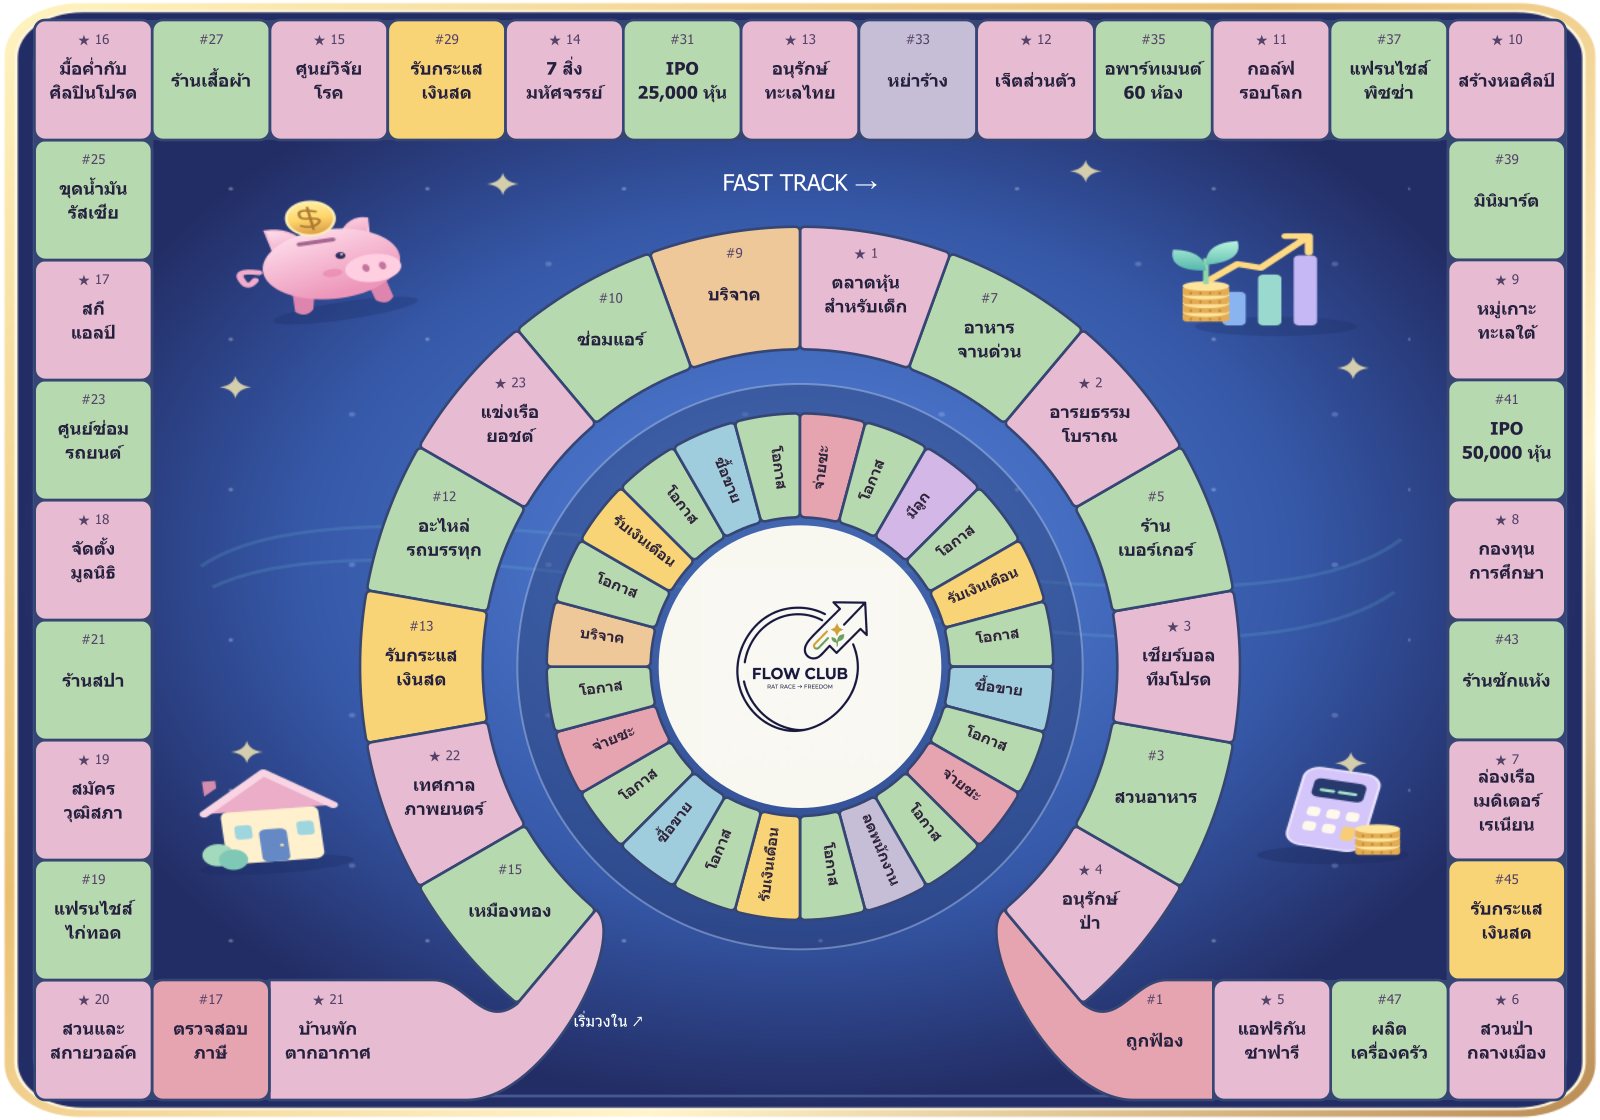
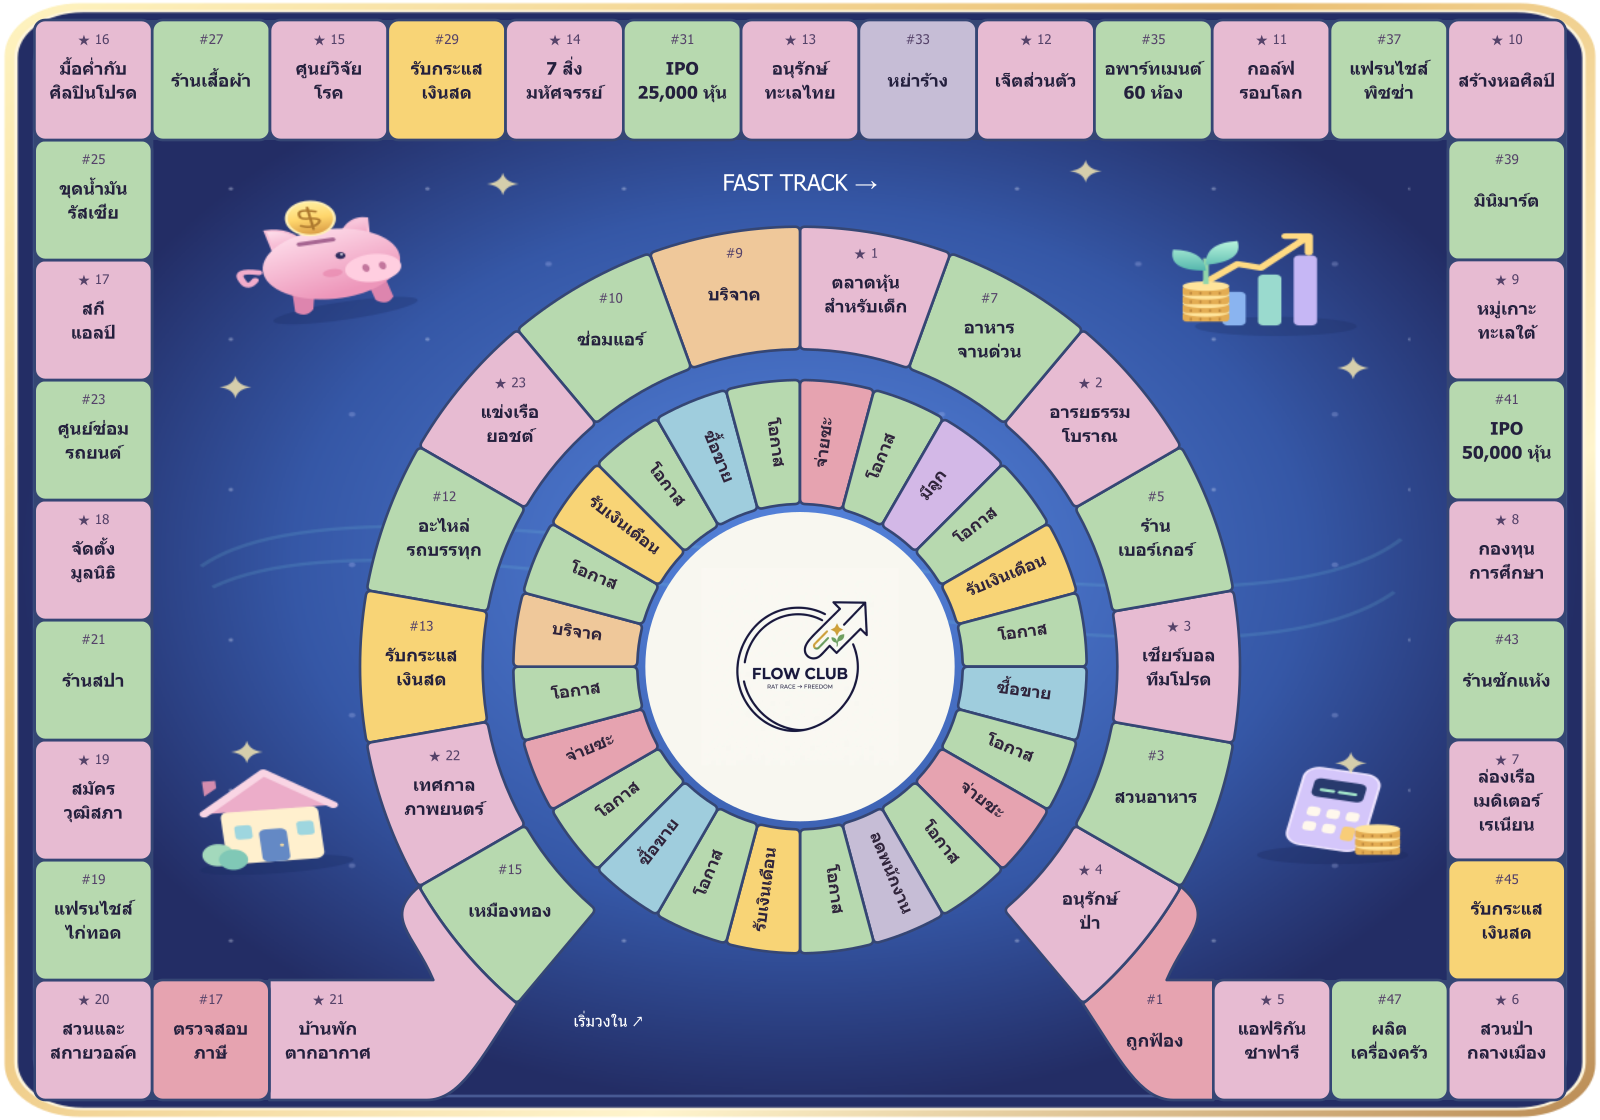
Up38

Changed region(s): [[0.3125, 0.3125, 0.6875, 0.875], [0.625, 0.7812, 0.75, 1.0], [0.25, 0.7812, 0.375, 1.0]]

diff --git a/components/PhotoBoard.jsx b/components/PhotoBoard.jsx
@@ -15,20 +15,20 @@ export default function PhotoBoard({players=[],active,lang='th',preview=false,ga
  const space=selected?(selected.track==='fast'?photoSpaces[selected.index]:{name:labels[photoInner[selected.index]],description:details[photoInner[selected.index]]}):null;
  const inspect=(track,index)=>setSelected({track,index});
  const interaction=(track,i)=>({role:'button',tabIndex:preview?-1:0,onClick:()=>!preview&&inspect(track,i),onKeyDown:e=>{if(!preview&&['Enter',' '].includes(e.key)){e.preventDefault();inspect(track,i);}}});
- function focusPlayer(){const p=players.find(p=>p.id===(selfId||active));if(!p)return;inspect(p.track,p.position);const [x,y]=p.track==='fast'?fastPoint(p.position):polar(148,142.5+p.position*15);const el=view.current;if(el){const width=el.scrollWidth;el.scrollTo({left:x/1200*width-el.clientWidth/2,top:y/840*(width*.7)-el.clientHeight/2,behavior:'smooth'});}}
+ function focusPlayer(){const p=players.find(p=>p.id===(selfId||active));if(!p)return;inspect(p.track,p.position);const [x,y]=p.track==='fast'?fastPoint(p.position):polar(169,142.5+p.position*15);const el=view.current;if(el){const width=el.scrollWidth;el.scrollTo({left:x/1200*width-el.clientWidth/2,top:y/840*(width*.7)-el.clientHeight/2,behavior:'smooth'});}}
  return <div ref={wrap} className="photo-board-wrap board-container">
  {!preview&&<div className="photo-board-tools"><span>{L('แตะช่องเพื่อดูราคา รายได้ และเงื่อนไข','Tap a space for price, income and rules')}</span><div className="row"><button className="btn secondary" onClick={()=>setZoom(z=>z===1?2:z===2?3:1)}>{L('ขยาย','Zoom')} {zoom}×</button><button className="btn secondary" onClick={()=>{if(document.fullscreenElement)document.exitFullscreen?.();else if(wrap.current?.requestFullscreen)wrap.current.requestFullscreen().catch(()=>setZoom(2));else setZoom(2);}}>{L('เต็มจอ ↗ / กลับ','Full screen / back')}</button><button className="btn secondary" disabled={!players.length} onClick={focusPlayer}>{L('ตำแหน่งของฉัน','My position')}</button></div></div>}
  {!preview&&game?.status==='playing'&&<RoomEmojis key={game.id} roomId={game.id} canSend={!!emojiAuthorization} authorization={emojiAuthorization} lang={lang}/>}
  <div ref={view} className={'photo-board-scroll '+(zoom>1?'zoomed':'')}><svg className="photo-board" style={{width:zoom*100+'%'}} viewBox="0 0 1200 840" role="group" aria-label={L('กระดานวงใน 24 ช่อง วงนอก 48 ช่อง','Board: 24 inner spaces, 48 outer spaces')}>
  <image width="1200" height="840" href="/flow-garden-board-spacious-v2.svg" preserveAspectRatio="none" pointerEvents="none"/>
  <path d="M 910 780 H 1130 V 60 H 70 V 780 H 246" fill="none" stroke="#354674" strokeWidth="90" strokeLinejoin="round"/>
- <circle cx="600" cy="500" r="212" fill="#243662" fillOpacity=".35" stroke="#b5c8ec" strokeOpacity=".45" strokeWidth="1.5"/>
+
  {photoSpaces.map((s,i)=>{const [x,y]=fastPoint(i),chosen=!!s.dream&&s.dream===selectedDream,arc=i>=1&&i<=14,a=40-(i-1)*20;const lines=T(boardShortLabels[i]).split('|'),transition=boardTransitionPath(i);return <g key={i} className="board-space" {...interaction('fast',i)} aria-label={`${i+1}. ${T(s.name)}`}><title>{T(s.name)+(s.cost?' · ฿'+formatNumber(s.cost):'')}</title>{transition?<path d={transition} fill={colors[s.type]} stroke={chosen?'#fff':'#354674'} strokeWidth={chosen?4:2} strokeLinejoin="round"/>:arc?<path d={wedge(FAST_INNER_RADIUS,FAST_OUTER_RADIUS,a-10,a+10)} fill={colors[s.type]} stroke={chosen?'#fff':'#354674'} strokeWidth={chosen?4:2} strokeLinejoin="round"/>:<rect x={x-((i>=25&&i<=37)?1060/24:44)} y={y-45} width={(i>=25&&i<=37)?1060/12:88} height="90" rx="8" fill={colors[s.type]} stroke={chosen?'#fff':'#354674'} strokeWidth={chosen?4:2} strokeLinejoin="round"/>}
  <text x={x} y={y-27} textAnchor="middle" fontSize="10" fill="#554269">{s.type==='dream'?'★ '+s.number:'#'+(i+1)}</text><text textAnchor="middle" fill="#24203d" fontWeight="700" fontSize={lang==='th'?13:11.5}>{lines.map((line,j)=><tspan key={j} x={x} y={y+5+(j-(lines.length-1)/2)*18}>{line}</tspan>)}</text></g>;})}
- {photoInner.map((type,i)=>{const a=142.5+i*15,[x,y]=polar(150,a);return <g key={i} {...interaction('rat',i)} aria-label={`${i+1}. ${T(labels[type])}`}><path d={wedge(112,190,a-7.5,a+7.5)} fill={colors[type]} stroke="#354674" strokeWidth="2"/><text x={x} y={y} transform={`rotate(${Math.cos(a*Math.PI/180)<0?a+180:a} ${x} ${y})`} textAnchor="middle" fontSize="11" fontWeight="700" fill="#30243b">{T(labels[type])}</text></g>;})}
- <circle cx="600" cy="500" r="106" fill="#f8f7f0"/><image x="526" y="426" width="148" height="148" href="/flow-club-logo-v1.webp"/>
+ {photoInner.map((type,i)=>{const a=142.5+i*15,[x,y]=polar(169,a);return <g key={i} {...interaction('rat',i)} aria-label={`${i+1}. ${T(labels[type])}`}><path d={wedge(122,215,a-7.5,a+7.5)} fill={colors[type]} stroke="#354674" strokeWidth="2"/><text x={x} y={y} transform={`rotate(${Math.cos(a*Math.PI/180)<0?a+180:a} ${x} ${y})`} textAnchor="middle" fontSize="12.5" fontWeight="700" fill="#30243b">{T(labels[type])}</text></g>;})}
+ <circle cx="600" cy="500" r="116" fill="#f8f7f0"/><image x="526" y="426" width="148" height="148" href="/flow-club-logo-v1.webp"/>
  <text x="600" y="143" textAnchor="middle" fill="#fff" fontSize="17">FAST TRACK →</text><text x="430" y="770" fill="#fff" fontSize="12">{L('เริ่มวงใน ↗','START ↗')}</text>
- {[...players].sort((a,b)=>Number(a.id===active)-Number(b.id===active)).map(p=>{const [x,y]=p.track==='fast'?fastPoint(p.position):polar(150,142.5+p.position*15);return <g key={p.id} {...interaction(p.track,p.position)} aria-label={p.name}><circle cx={x} cy={y} r="18" fill="transparent"/><foreignObject x={x-18} y={y-18} width="36" height="36" className="board-avatar stacked-avatar"><PlayerAvatar player={p} index={players.indexOf(p)} active={p.id===active} lang={lang}/></foreignObject></g>;})}
+ {[...players].sort((a,b)=>Number(a.id===active)-Number(b.id===active)).map(p=>{const [x,y]=p.track==='fast'?fastPoint(p.position):polar(169,142.5+p.position*15);return <g key={p.id} {...interaction(p.track,p.position)} aria-label={p.name}><circle cx={x} cy={y} r="18" fill="transparent"/><foreignObject x={x-18} y={y-18} width="36" height="36" className="board-avatar stacked-avatar"><PlayerAvatar player={p} index={players.indexOf(p)} active={p.id===active} lang={lang}/></foreignObject></g>;})}
  </svg></div>
  {space&&<section className="card photo-space-detail" aria-live="polite"><button className="text-button" onClick={()=>setSelected(null)} aria-label={L('ปิดรายละเอียด','Close details')}>✕</button><span className="eyebrow">{selected.track==='fast'?'FAST TRACK':'RAT RACE'} · {L('ช่อง','SPACE')} {selected.index+1}</span><h3>{T(space.name)}</h3><p>{T(space.description)}</p>{space.cost&&<p><strong>{L('ราคา / เงินลงทุน','Price / investment')}: ฿{formatNumber(space.cost)}</strong></p>}{space.flow>0&&<p className="positive">{L('กระแสเงินสดต่อเดือน','Monthly cash flow')}: +฿{formatNumber(space.flow)}{space.risk?L(' (เมื่อทอยสำเร็จ)',' (on a successful roll)'):''}</p>}{space.dream&&onDream&&<button className="btn secondary" onClick={()=>onDream(space)}>{L('ดูความฝัน','View dreams')}</button>}{players.filter(p=>p.track===selected.track&&p.position===selected.index).map(p=><div className="row" key={p.id}><PlayerAvatar player={p} index={players.indexOf(p)} lang={lang}/><strong>{p.name}</strong>{p.id===active?L('กำลังเล่น','Current turn'):''}</div>)}{selected.track==='rat'&&<details className="card-reference"><summary>{L('ดูภาพอ้างอิงวงในทั้ง 4 ด้าน','View the four inner-board references')}</summary>{innerPhotos.map(src=><img key={src} src={src} alt={L('ภาพอ้างอิงวงใน','Inner-board reference')} loading="lazy"/>)}</details>}{space.photo&&<details className="card-reference"><summary>{L('ดูภาพช่องอ้างอิง','View source photograph')}</summary><img src={space.photo} alt={T(space.name)} loading="lazy"/></details>}</section>}
  </div>;
